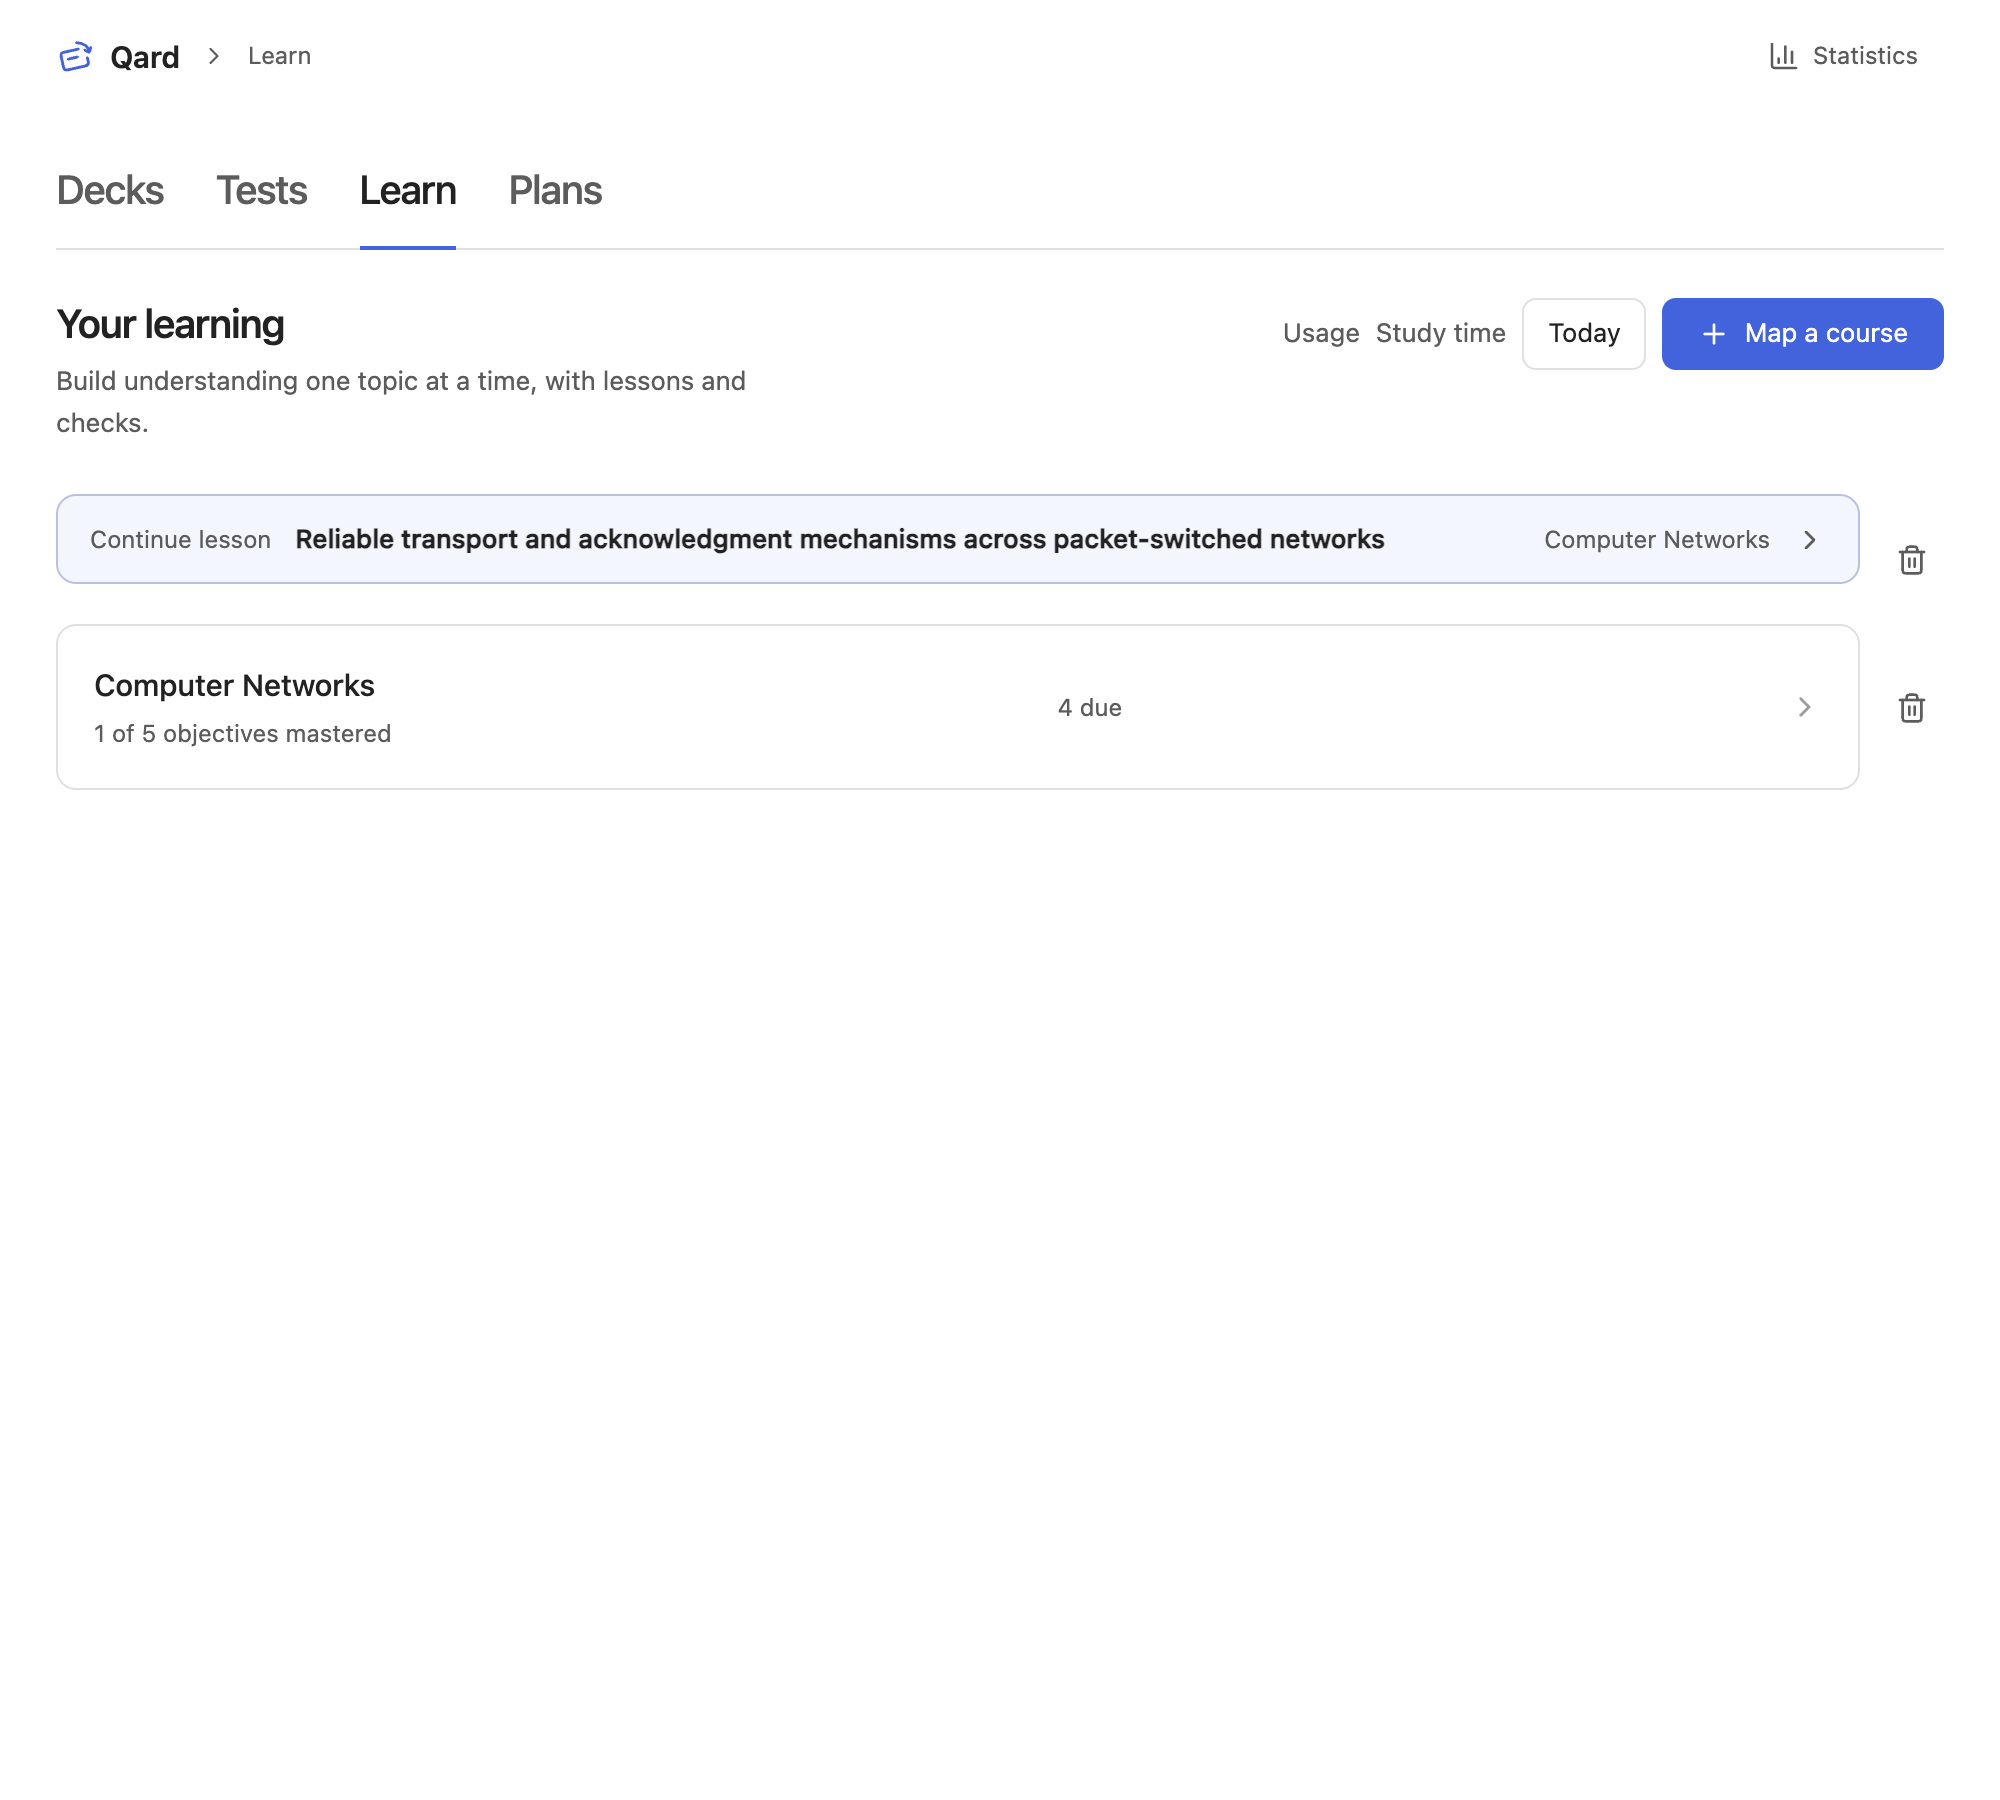
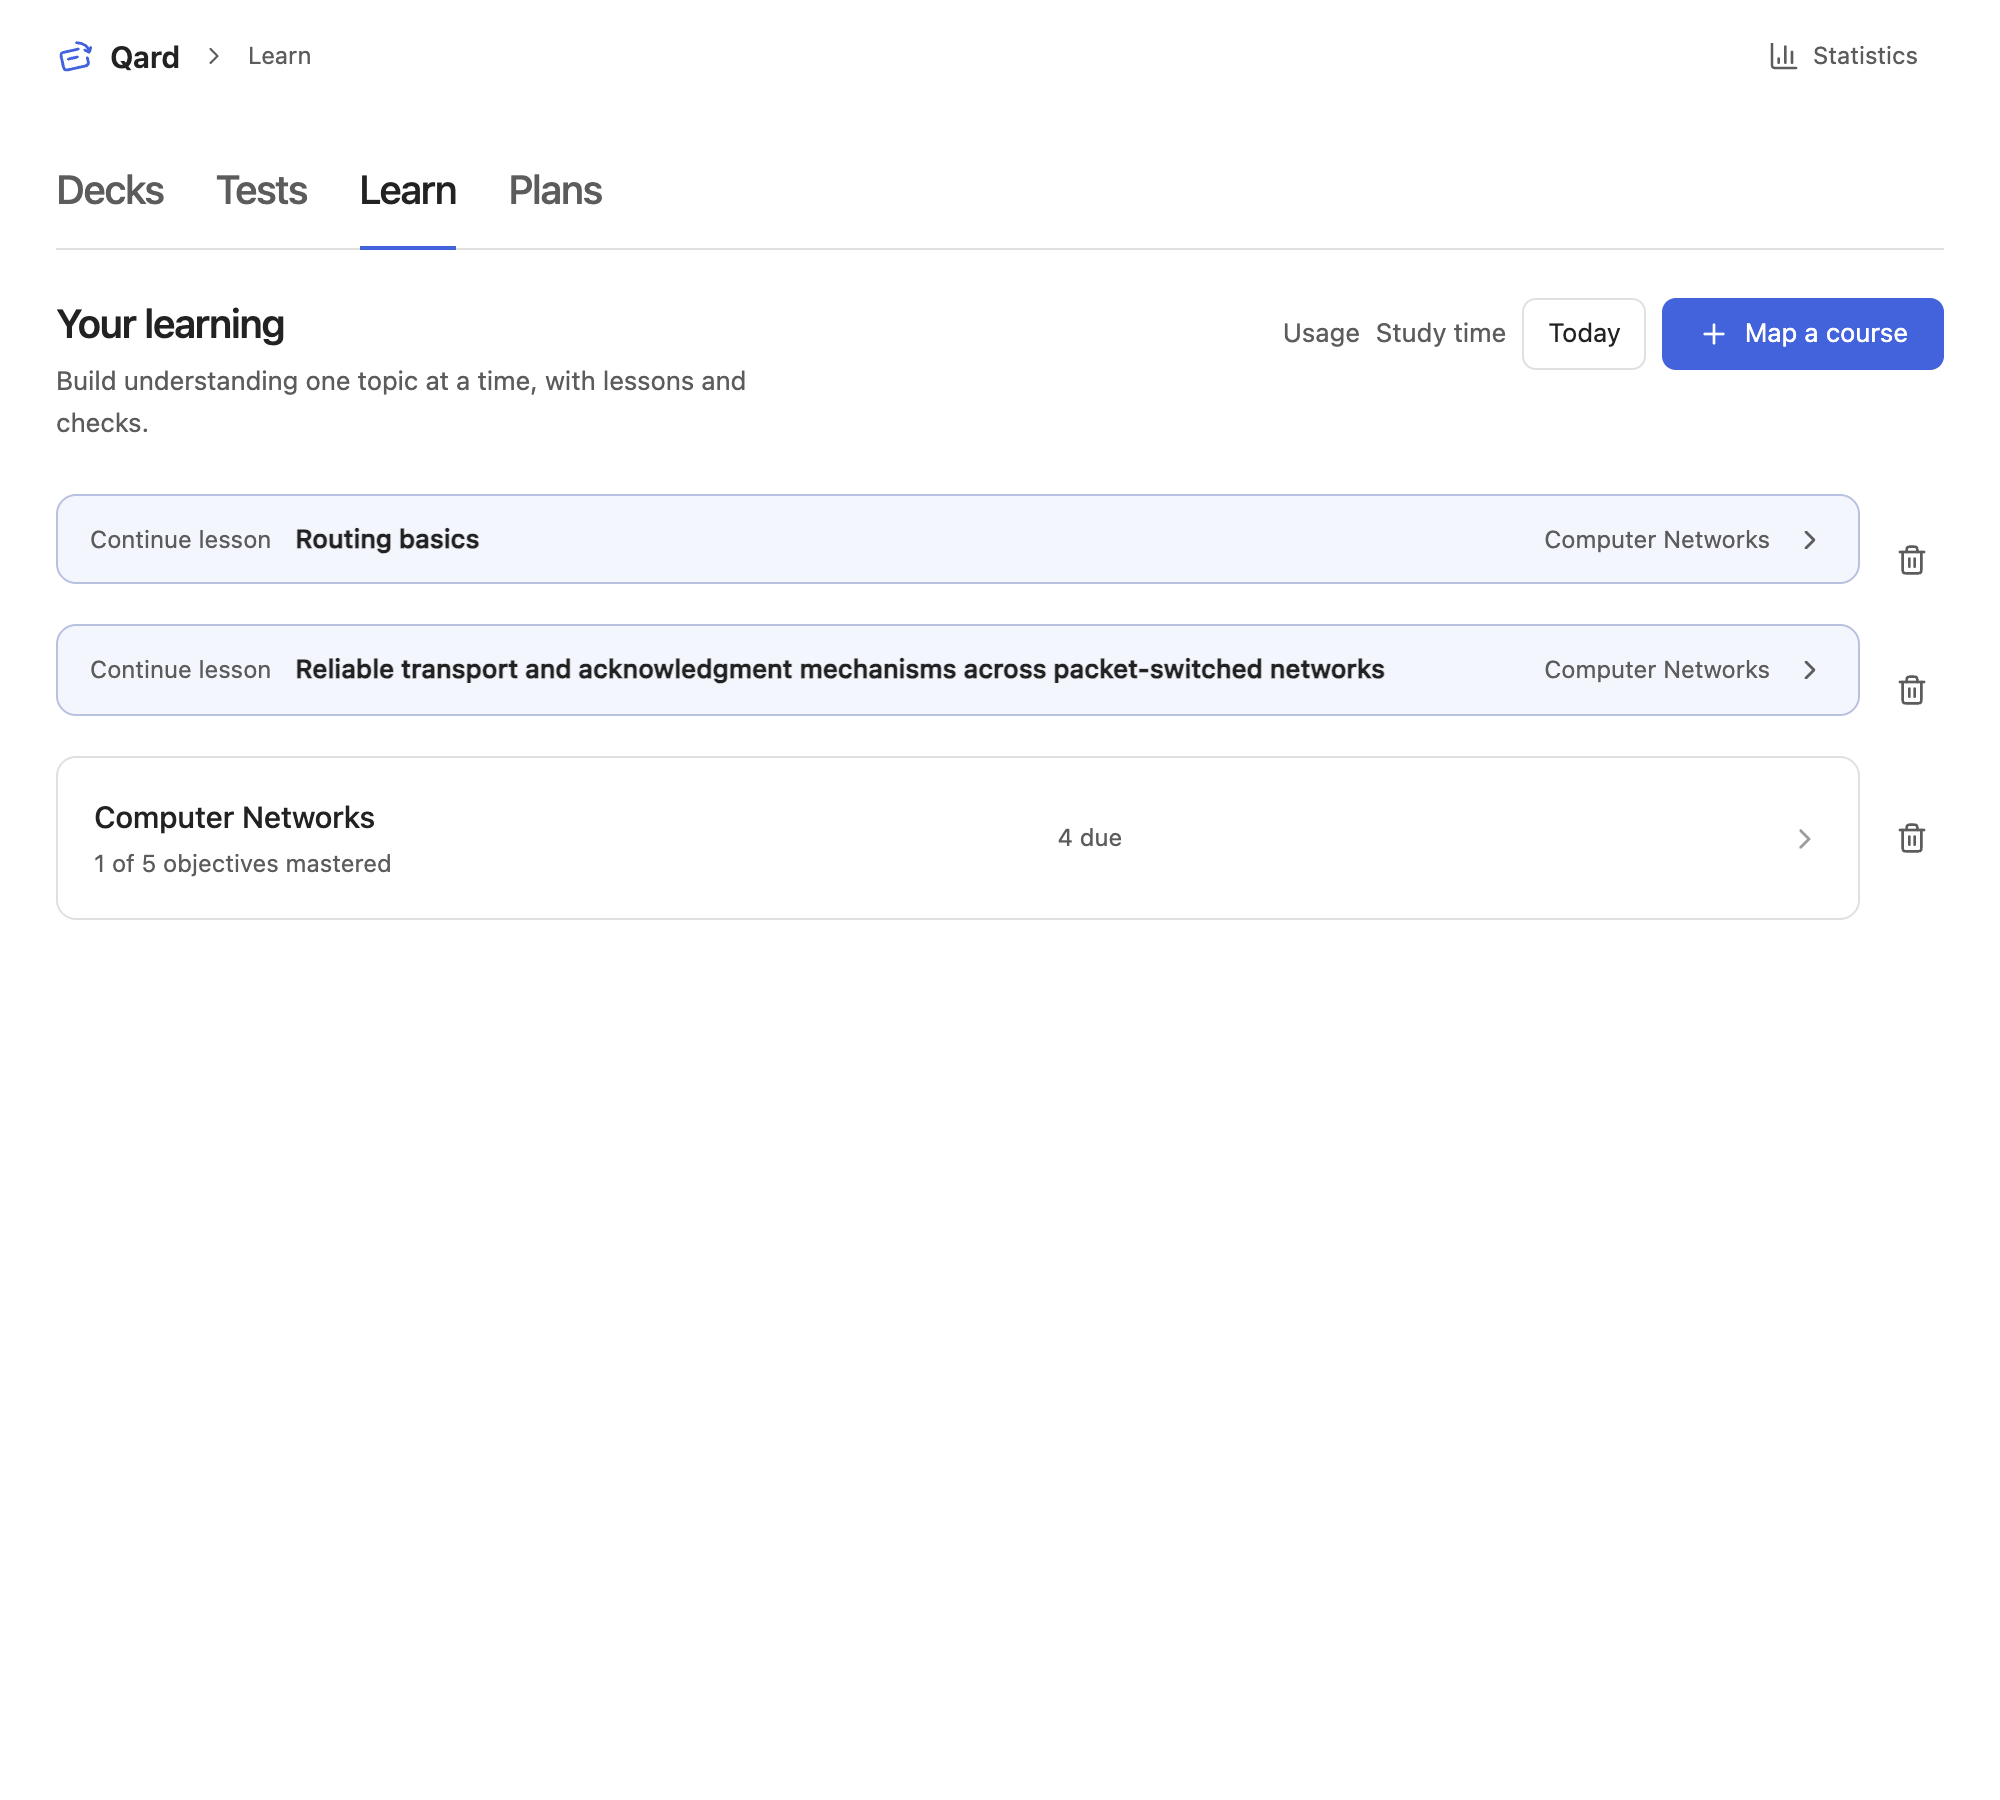
Refresh responsive navigation state and compact action comparisons

diff --git a/docs/images/ui-main-latest/audit-report.md b/docs/images/ui-main-latest/audit-report.md
@@ -1,15 +1,19 @@
-# PR #11 — waiting, trails and compact reports
+# PR #11 — responsive navigation state and compact actions
 
-Source `80815a885ff0cc6a1965a3aa288396f3a31272e6`; fork-main baseline `70056821914f0dae910b52a20f1fa3329b04d0ac`.
+Source `d6746105734fa7ab44456ad32586f4d560dd5770`; fork-main baseline `70056821914f0dae910b52a20f1fa3329b04d0ac`.
 
-Implemented all seven requested refinements. The redundant “Try this first. Work it out from what you know.” helper is removed. Lesson/test step trails retain direct step/chevron/step structure and now scroll horizontally on one line inside their own containers. Waiting activity tabs share available remaining width, stay together when wrapping, and card controls fill each row; compact ratings use two equal columns. Warm-up context and count are separate, with count at the trailing edge. Retry-card score uses the same metadata row. Wrapped figure Redraw/Cancel controls share the full row. Mobile deck search uses the shared control font instead of the 16px override. Compact Study time uses the page-title role for its total, control typography for its introduction, body typography for activity values, a regular two-column activity summary, and a centered space-between legend with complete swatch/label pairs and no inter-row gap.
+Both audit findings are fixed. Lesson/test step strips reveal the current item on resume/index changes using only their own horizontal scroll offset. Manual scrolling is preserved while the index remains unchanged; the new helper does not move the surrounding page. Real parent deck branches stay mounted, are hidden when collapsed on desktop, and remain available in compact panes; widening restores the existing collapsed state. Virtual parent rows retain their fold behavior. Whole-row real-deck navigation and subtree study actions are preserved.
 
-Validation: `npm run check` passed, including 774 tests in 95 suites, formatting, TypeScript, ESLint, Stylelint, build and release checks. Targeted waiting tests passed, preserving skip/reveal/rating, activity switching, count advancement and note opening. 108 focused browser assertions passed at 320/375/390/600/768/1100px in light/dark themes. They cover helper removal, one-line trails with contained horizontal scrolling, waiting metadata alignment, tab grouping, full-row action widths, balanced compact ratings, figure controls, search font/placeholder, compact Study time and its six-item legend.
+Resume rows measure intrinsic label/title/course widths. A short title places course context vertically centered beside the chevron; a long title retains its full row and ellipsis. Resize observers handle pane/font/content changes and disconnect on cleanup. Compact lesson Check fills its row; Ask remains a separate compact input action. Drawing/redrawing cancellation is a named icon at the end of the status row; overdue warnings and cancellation remain functional. The Study time legend now uses contained horizontal scrolling with complete items instead of wrapping/distributed spacing.
 
-72 integrated scenarios cover Library, Learn, Lesson, test taking, Study time and waiting screens across six mobile/tablet/desktop/split-pane configurations and both themes. No runtime errors, main horizontal overflow or sampled panel containment failures.
+`npm run check` passed: 780 tests across 96 suites, formatting, TypeScript, ESLint, Stylelint, production build, and release checks. New regressions cover lesson/test resume and bottom Next, manual scroll preservation and outer-scroll isolation, persistent deck branches/navigation, measured short/long resume fit and cleanup, compact figure cancellation and overdue guidance. Independent review found no actionable issues.
 
-36 matched main-to-latest pairs captured without runtime errors. All pairs use identical synthetic content, actions, theme, pane, clock and typography. The redundant lesson step strip is replaced by a compact check-first example showing both helper removal and scrolling trails. Mobile waiting capture reveals the card to show the rating layout; desktop shows Skip/Show answer. No intermediate revision comparisons; two equal image columns, maximum three examples per group.
+264 integrated light/dark pane/device scenarios passed without runtime errors, unintended main horizontal overflow or sampled out-of-bounds panels. Intended strip/legend/table scrolling remains contained.
 
-The verified build is installed only in the isolated Obsidian test vault. Native checks confirm one-line, horizontally scrollable step navigation, unchanged 34px plan/Ask controls, equal 76px Check/Ask widths and full-width compact Next step. Temporary in-memory lessons and pane-width override were removed; isolated app returned to Learn. Test plugin files match the build. DevBook plugin, global Obsidian configuration and installed app hashes remain unchanged. The isolated test app stays open. No development server was started.
+66 focused assertions passed across 320/375/390/600/768/1100px and light/dark themes. They verify late-step visibility, full-width compact Check, inline cancel alignment and naming, one-row scrollable legend, short/long resume fit/ellipsis containment, desktop collapse → compact child access → restored desktop collapse.
 
-Mobile validation uses touch/pane simulation, not a physical iPhone or mobile Safari. Keyboard accessibility remains outside scope. Detector output contains only the three retained semantic message/answer side-border warnings; no new detector finding was introduced. One initial combined inspection, one correction batch for 320px tab/rating reflow, and one confirmation completed the visual pass.
+37 matched main-to-latest screenshot pairs captured without runtime errors. Learn shows short and long resume titles; nested deck comparison performs desktop collapse before narrowing; a new late-step resume example verifies active item placement. Check-first examples retain the removed-helper comparison. All pairs use identical content, actions, theme, pane, clock and typography. No intermediate revision comparisons; two equal image columns and at most three examples per group.
+
+The verified build is installed only in isolated Obsidian. Native checks confirm active step visibility, 34px Ask controls, 358px full-row Check/footer actions, a 76px Ask action and preserved centered placeholder. Temporary in-memory lessons and pane-width override were removed; app returned to Learn. Test plugin files match the build. DevBook plugin, global Obsidian configuration and installed app hashes remain unchanged; isolated app stays open.
+
+No development server started. Mobile validation uses browser/touch/pane simulation, not physical iPhone/Safari. Keyboard accessibility remains outside scope. Detector output retains only the three pre-existing semantic message/answer side-border warnings. One combined inspection, one correction for long-title ellipsis, and one confirmation completed the visual pass.
